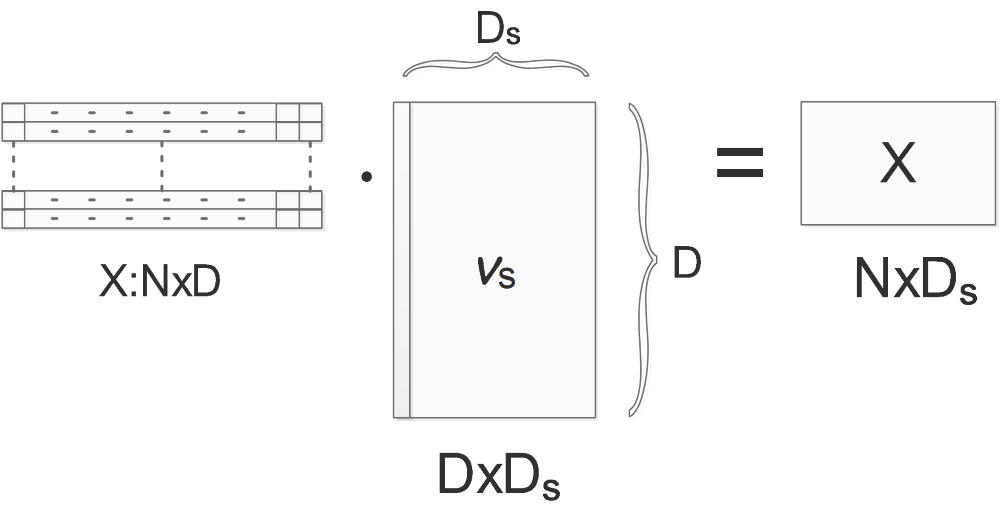
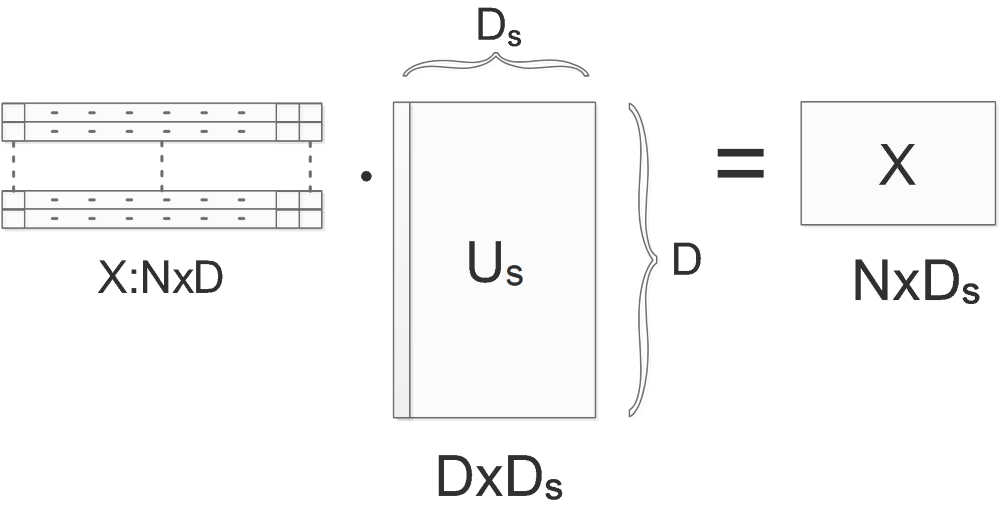
new things

diff --git a/_posts/2016-09-20-NN3.md b/_posts/2016-09-20-NN3.md
@@ -77,9 +77,7 @@ $$[u,s,v]=svd(X)$$
 
 $$v$$  **is exactly the same as**  $$U$$. 
 
-$$u$$  **is exactly the same as**  $$V$$. 
-
-**The singular values in $$S$$ are squares of the values in $$s$$.**  
+$$u$$  **is exactly the same as**  $$V$$.  
 
 The eigen vectors are visualized as red vectors in the above diagram. 
 
@@ -93,9 +91,9 @@ The projection is visualized as the 2 projection arrows perpendicular to each ot
 
 #### **<center>Dimensionality Reduction</center>**
 
-**The eigen vectors in $$v$$ are already sorted by the singular values in $$s$$, the bigger is the singular value, the more important is the corresponding eigen vector in $$u$$：**
+**The eigen vectors in $$U$$ are already sorted by the singular values in $$S$$, the bigger is the singular value, the more important is the corresponding eigen vector in $$U$$：**
 
-![svd]({{ site.url }}\images\machine_learning\svd.png)
+![svd]({{ site.url }}\images\machine_learning\covsvd.png)
 
 In the above diagram, the singular values are already sorted from big to small:
 
@@ -103,9 +101,11 @@ In the above diagram, the singular values are already sorted from big to small:
 
 $$s_1>s_2>\cdots >s_N$$
 
-So we can ignore the less important eigen vectors. **Let's say the first $$D_s$$ singular values are big enough to be kept. So we use only the first $$D_s$$ columns of $$v$$ to project the original data:**![reducedim]({{ site.url }}\images\machine_learning\reducedim.png)
+So we can ignore the less important eigen vectors. **Let's say the first $$D_s$$ singular values are big enough to be kept. So we use only the first $$D_s$$ columns of $$U$$ to project the original data:**
 
-Normally, when decorrelatting the $$X$$, we use the whole $$v$$ matrix(the $$U$$) to project:
+![covsvd]({{ site.url }}\images\machine_learning\reducedim.png)
+
+Normally, when decorrelatting the $$X$$, we use the whole $$U$$ matrix(the $$v$$) to project:
 
 
 
@@ -121,7 +121,7 @@ The size of $$RotX$$ is originally $$N$$x$$D$$, after applying the dimension red
 
 #### **<center>Whitening</center>**
 
-After the decentering, decorrelation and dimension reduction, the last process will be normalization. Instead of using the data rows' standard deviation or scaling to [-1,1], **we divide every dimension(eigenbasis) by the eigenvalue to normalize the scale.**This process is called whitening.
+After decentering, decorrelation and dimension reduction, the last process will be normalization. Instead of using the data rows' standard deviation or scaling to [-1,1], **we divide every dimension(eigenbasis) by $$\sqrt{s_i}$$(square roots of the corresponding singular values in $$S$$ ) to normalize the scale.**This process is called whitening.
 
 Combining all preprocessing steps:
 
